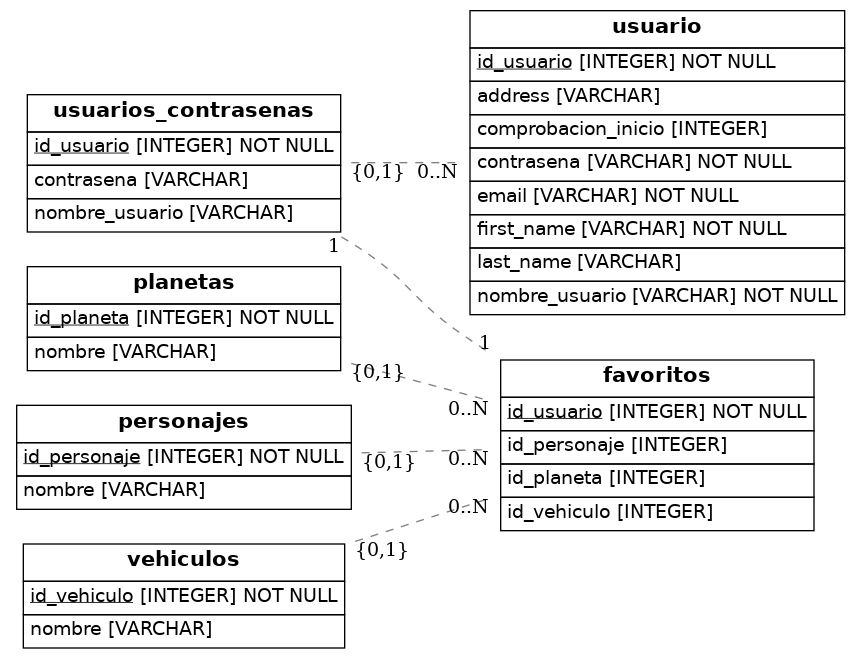
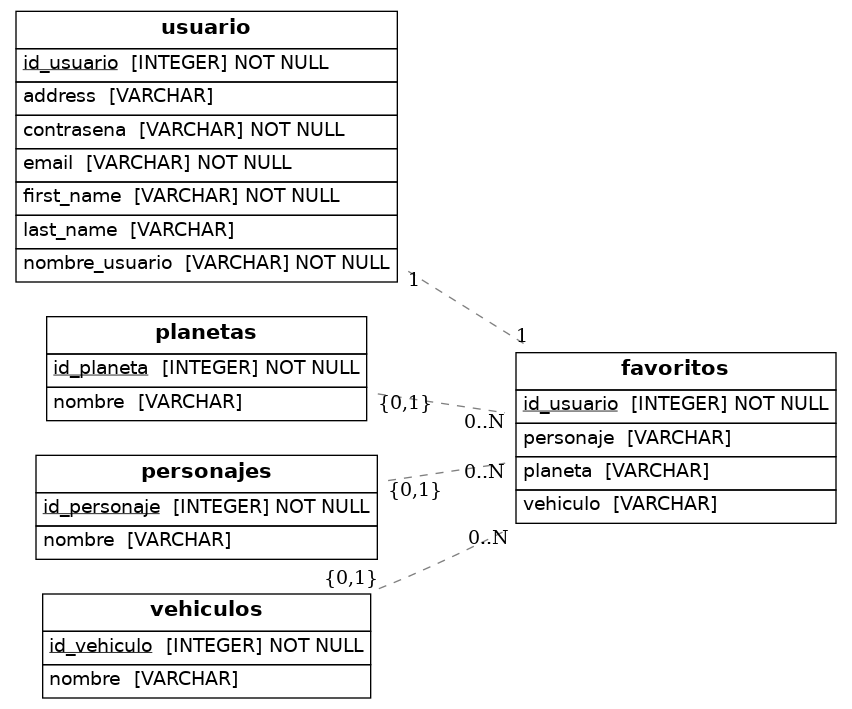
corregido

diff --git a/src/models.py b/src/models.py
@@ -16,18 +16,10 @@ class Usuario (Base):
     contrasena=Column(String, nullable=False) 
     email=Column(String, nullable=False)
     address=Column(String)
-    comprobacion_inicio=Column(Integer, ForeignKey("usuarios_contrasenas.id_usuario")) #esto lo necesito de usuarios_contrasenas, CLAVE FORANEA
+
+    relacion_favoritos = relationship("Favoritos", backref="usuario")
+
     
-
-class Usuarios_Contrasenas(Base):
-    __tablename__ = 'usuarios_contrasenas'
-    id_usuario= Column(Integer, primary_key=True)
-    nombre_usuario=Column(String)
-    contrasena=Column(String)
-    relacion_usuario=relationship("Usuario", backref="usuarios_contrasenas")
-    #Hago la relacion a Usuario para poder darle nombre_usuario y contrasena
-    relacion_favoritos=relationship("Favoritos", backref="usuarios_contrasenas")
-
 class Planetas(Base):
     __tablename__ = 'planetas'
     id_planeta= Column(Integer, primary_key=True)
@@ -51,10 +43,10 @@ class Vehiculos(Base):
 
 class Favoritos(Base):
     __tablename__ = 'favoritos'
-    id_usuario= Column(Integer, ForeignKey("usuarios_contrasenas.id_usuario"), primary_key=True) #necesito id_usuario de usuarios_contrasenas
-    id_planeta= Column(Integer, ForeignKey("planetas.id_planeta"))
-    id_personaje= Column(Integer, ForeignKey("personajes.id_personaje"))
-    id_vehiculo= Column(Integer, ForeignKey("vehiculos.id_vehiculo"))
+    id_usuario= Column(Integer, ForeignKey("usuario.id_usuario"), primary_key=True) #necesito id_usuario de usuarios
+    planeta= Column(String, ForeignKey("planetas.nombre"))
+    personaje= Column(String, ForeignKey("personajes.nombre"))
+    vehiculo= Column(String, ForeignKey("vehiculos.nombre"))
 
 
     def to_dict(self):
